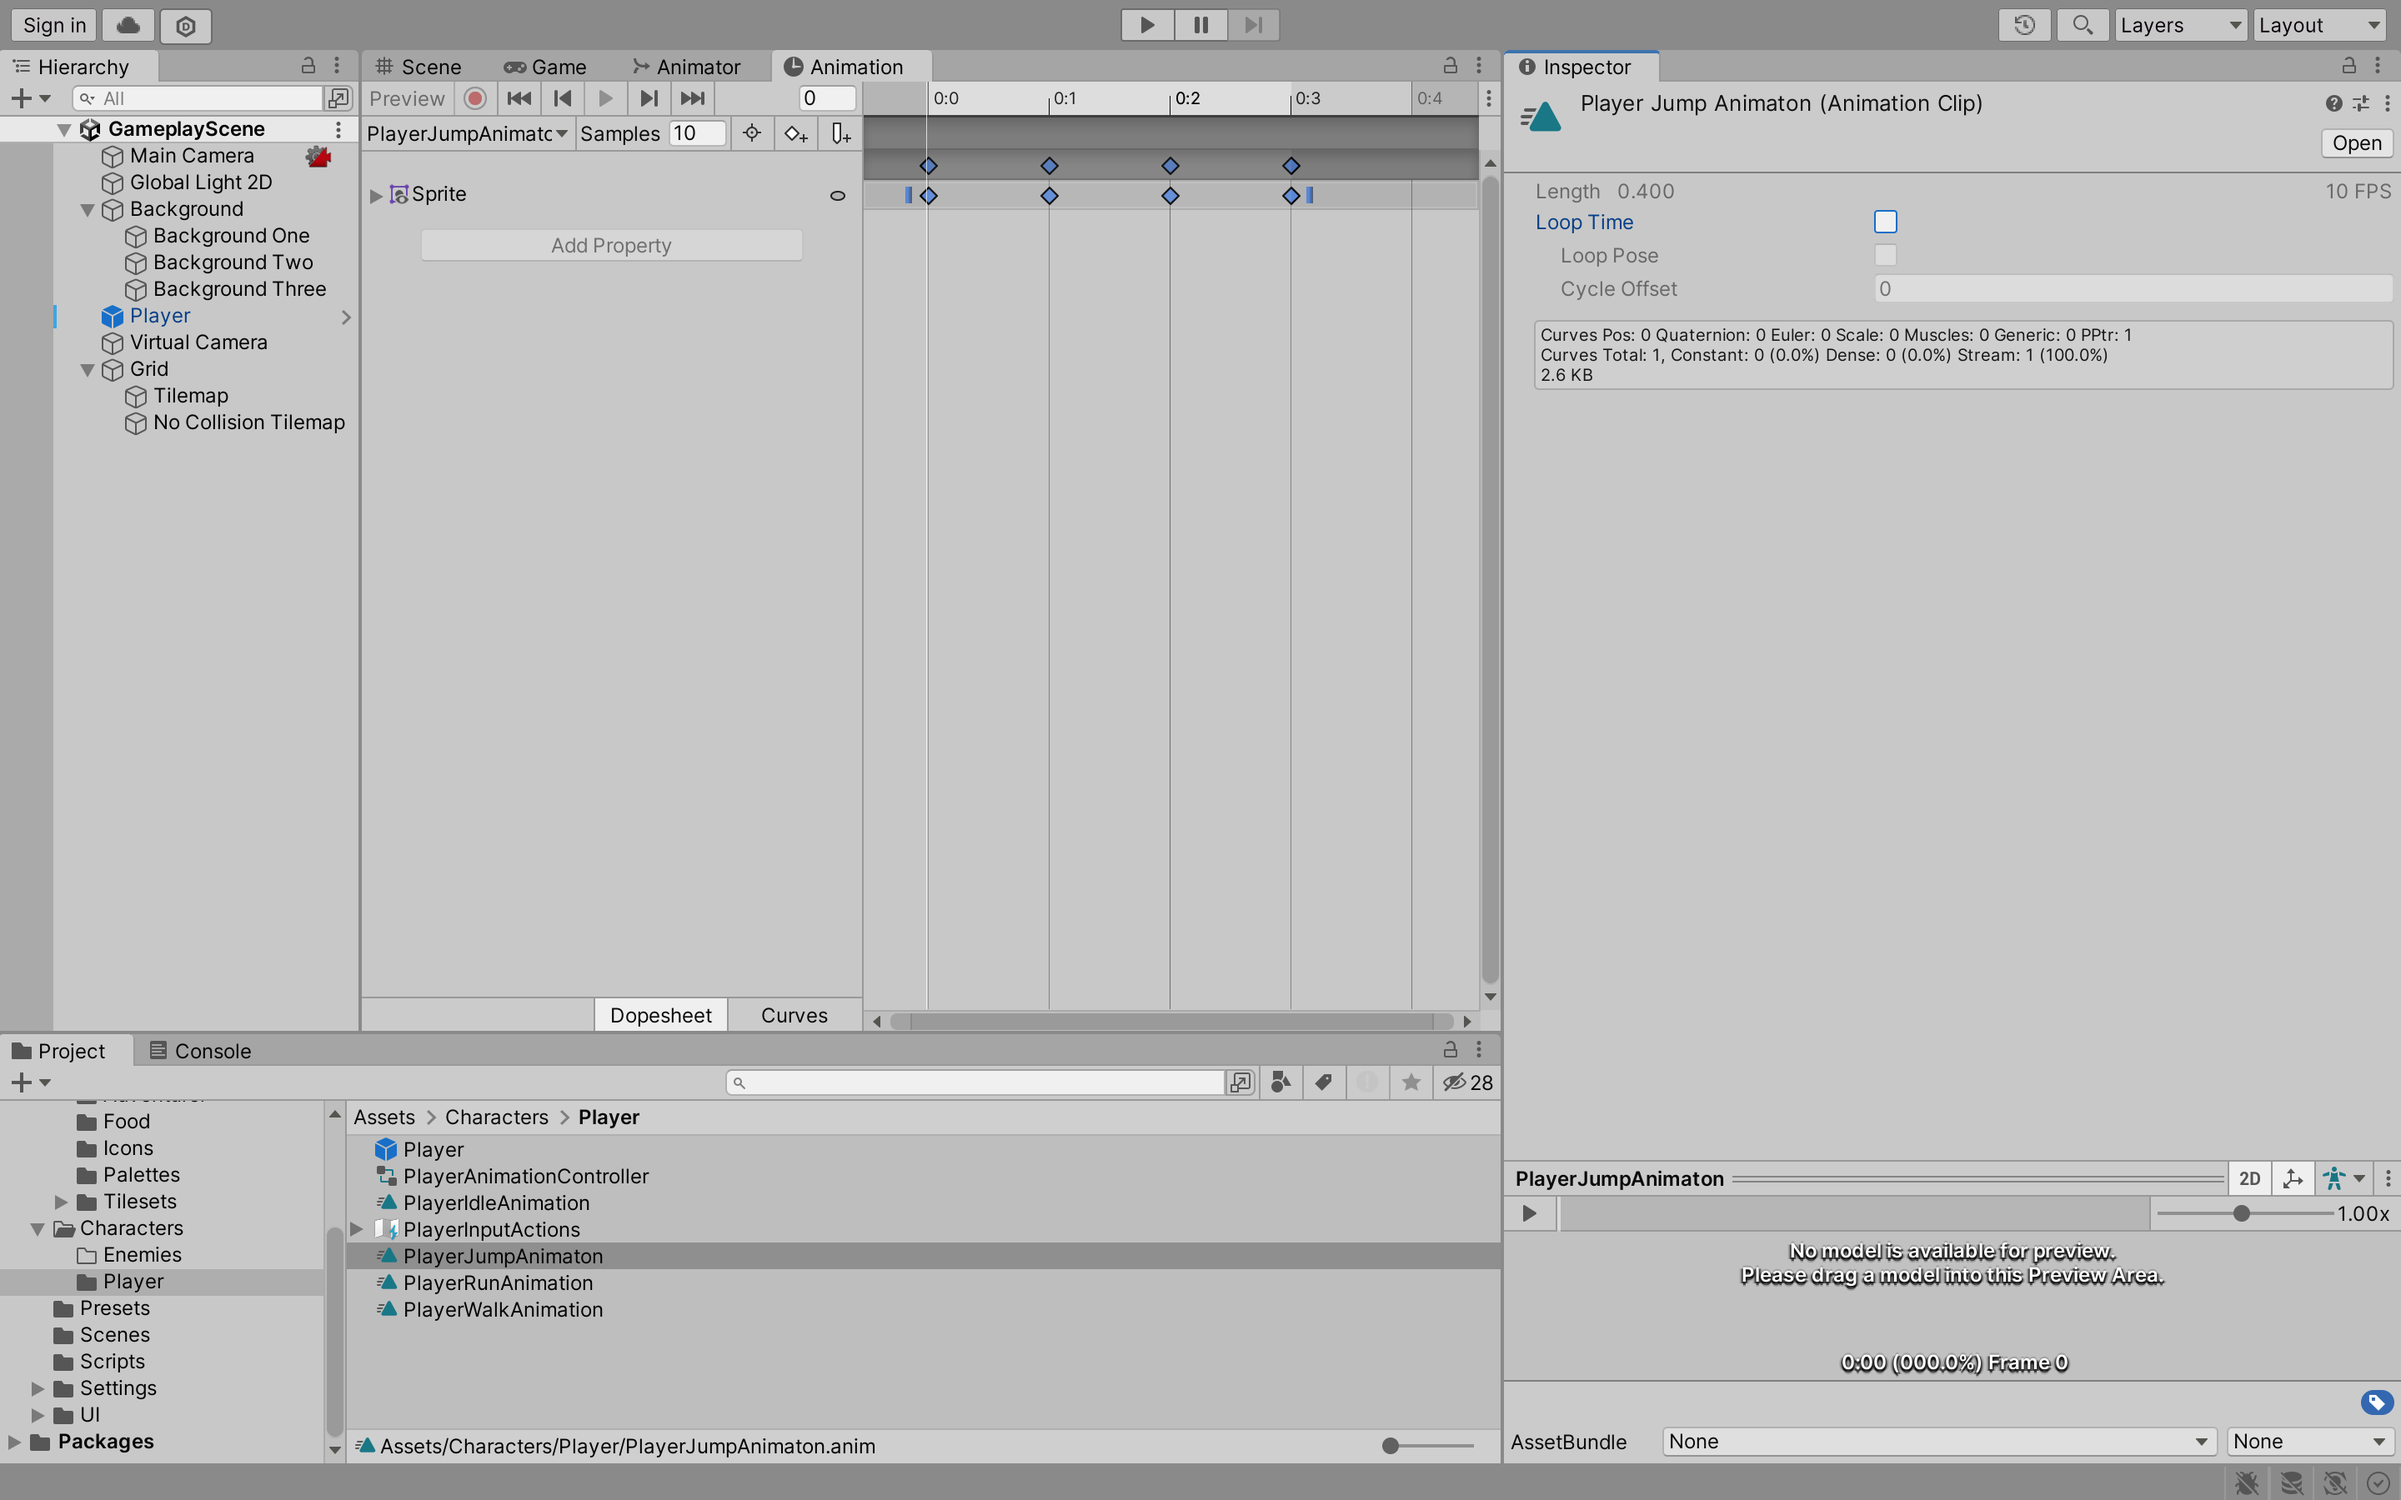
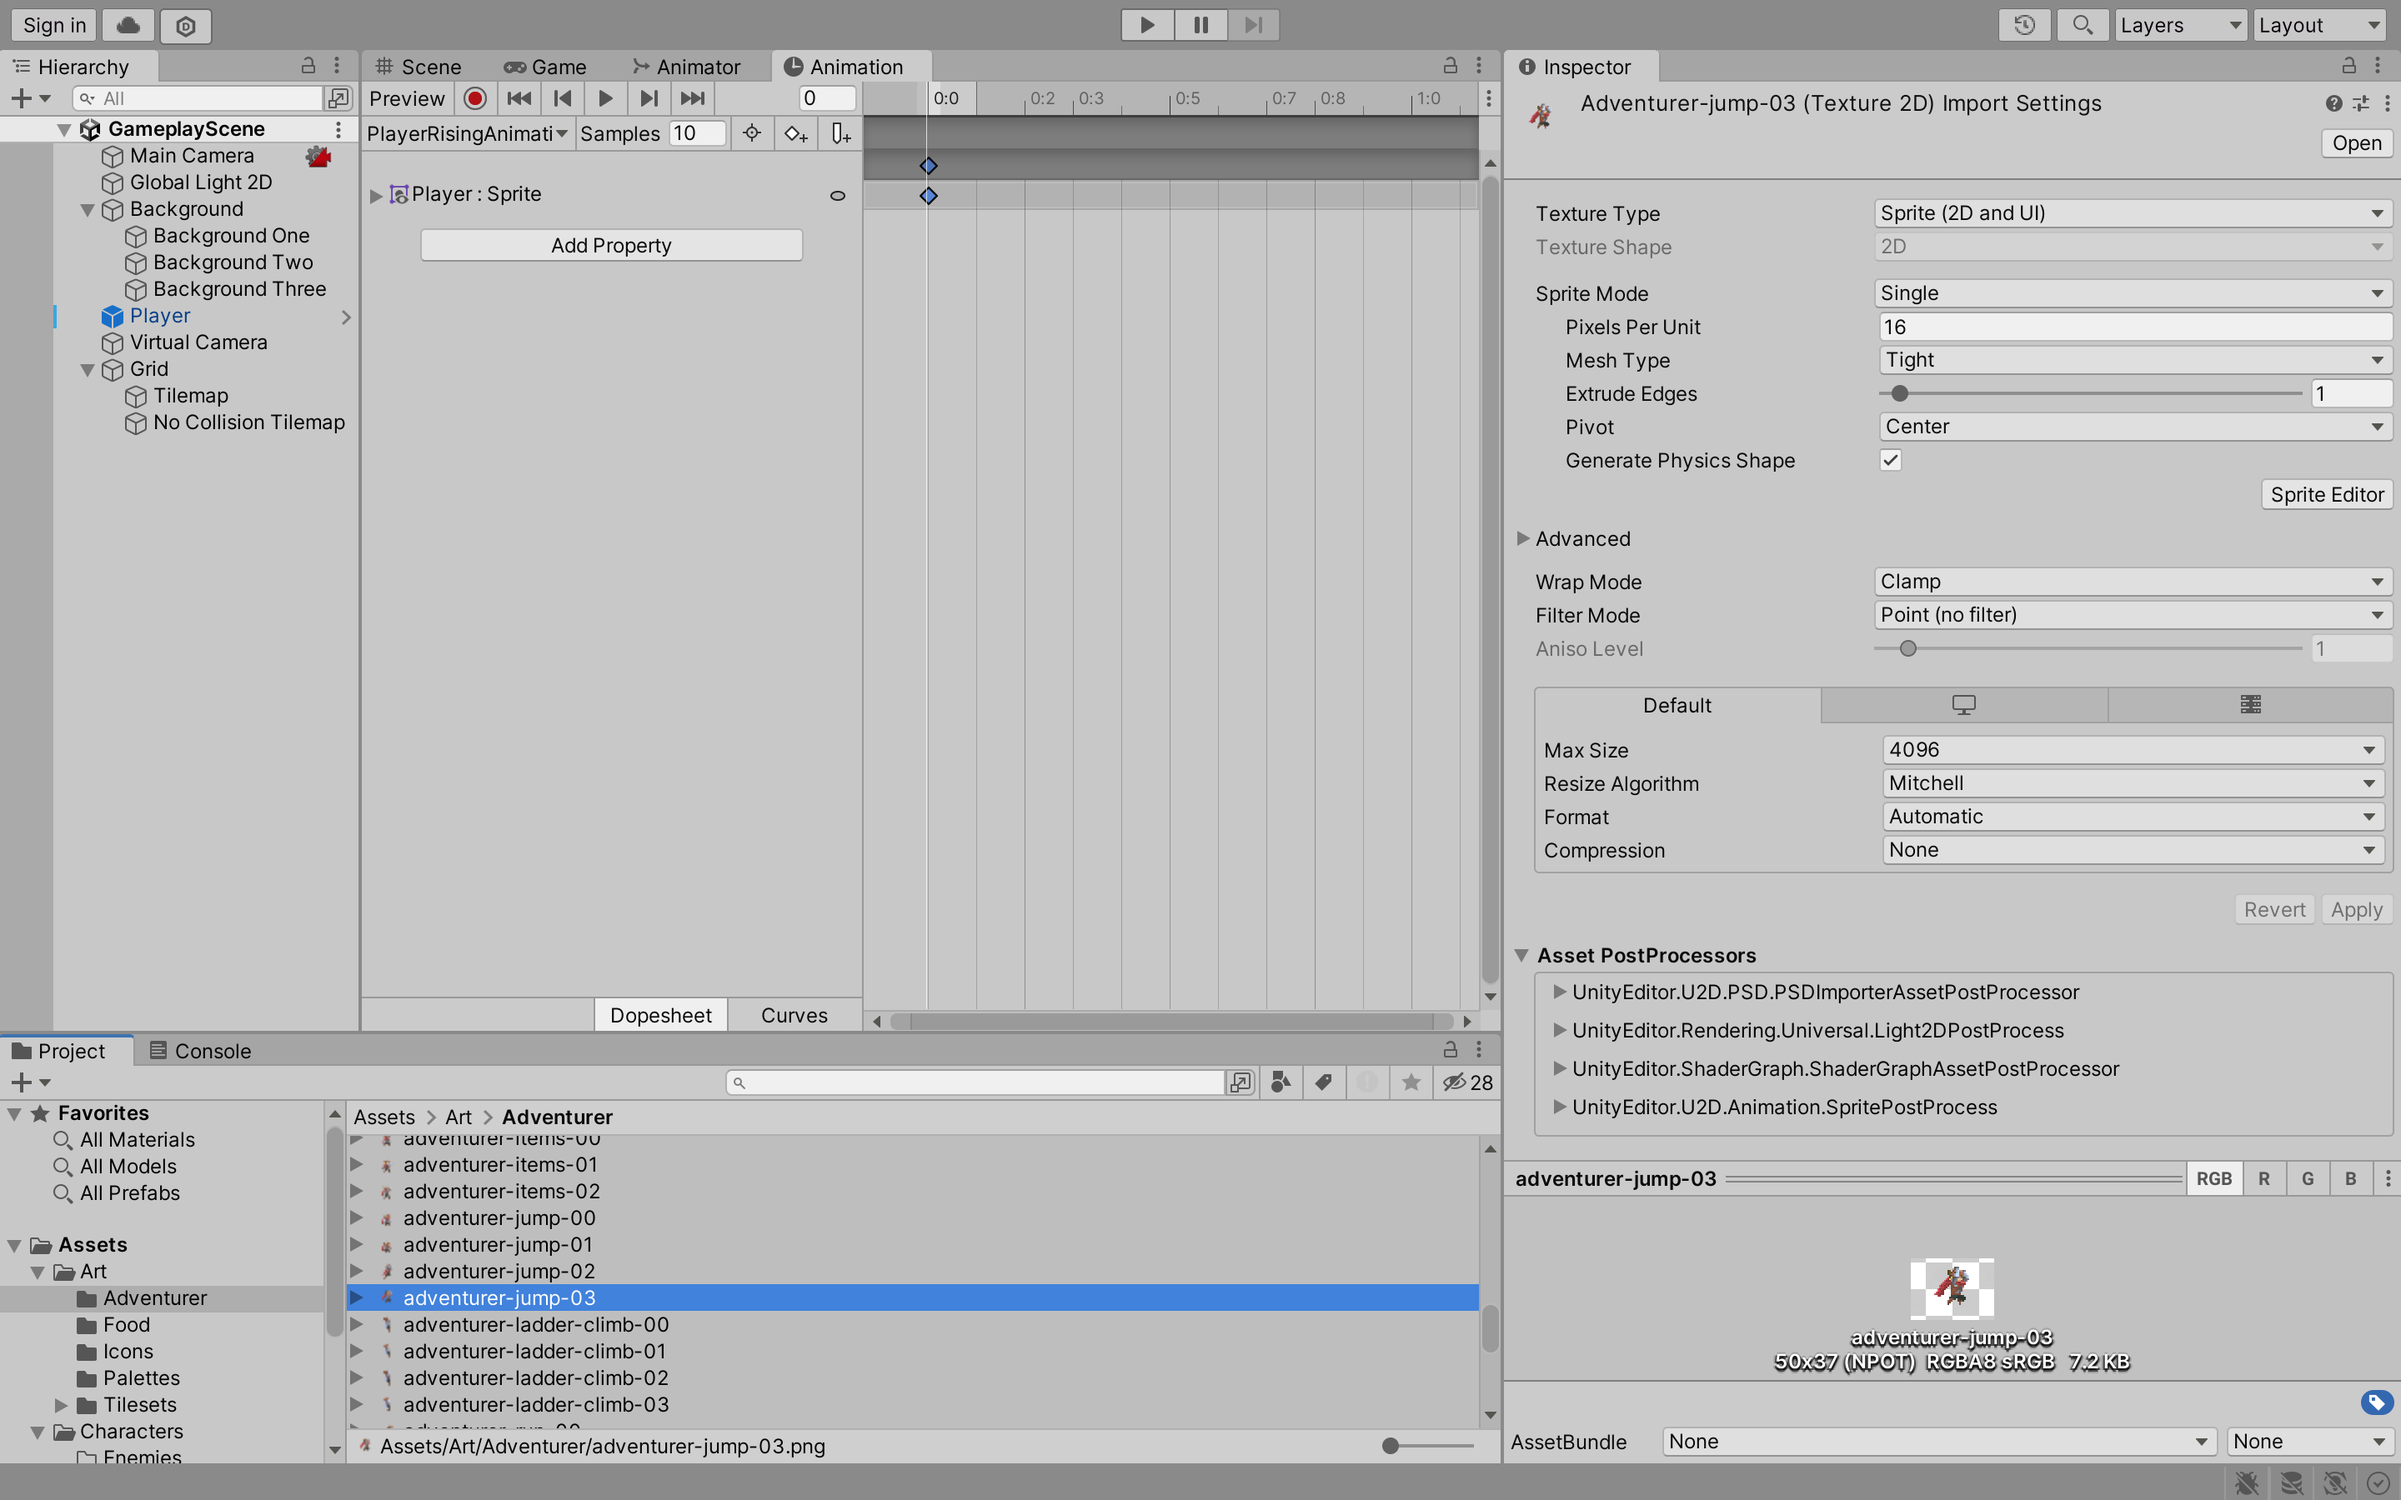
update

diff --git a/lecture-notes/01-unity-recap.md b/lecture-notes/01-unity-recap.md
@@ -569,6 +569,8 @@ public class PlayerController : MonoBehaviour
 
 ## Air States
 
+In the **Scripts** directory, create a new script called **TouchController.cs**. Add the following code to the script:
+
 ```cs
 using System.Collections;
 using System.Collections.Generic;
@@ -610,3 +612,50 @@ public class TouchController : MonoBehaviour
     }
 }
 ```
+
+2. Apply the **TouchController.cs** script to the **Player**.
+
+![](../resources/img/01/11-air-states/01.png)
+
+3. Open the **Animator** window and create a new bool parameter called **isGrounded**.
+
+![](../resources/img/01/11-air-states/02.png)
+
+4. Create a new **Animation Clip** called **PlayerJumpAnimation**. Add the following sprites to the **Dopesheet**:
+   - adventurer-jump-0
+   - adventurer-jump-1
+   - adventurer-jump-2
+   - adventurer-jump-3
+
+![](../resources/img/01/11-air-states/03.png)
+
+5. Create a new **Animation Clip** called **PlayerRisingAnimation**. Add the **adventurer-jump-3** sprite to the **Dopesheet**.
+
+![](../resources/img/01/11-air-states/04.png)
+
+6. Create a new **Animation Clip** called **PlayerFallAnimation**. Add the **adventurer-fall-0** and **adventurer-fall-1** sprites to the **Dopesheet**.
+
+![](../resources/img/01/11-air-states/05.png)
+
+7. Create a new **Sub-State Machine** called **AirStates**. This will be used to control the air states of the player. Move the **PlayerJumpAnimation**, **PlayerRisingAnimation** and **PlayerFallAnimation** into the **AirStates**.
+
+![](../resources/img/01/11-air-states/06.png)
+
+8. Make the following transitions:
+   - **GroundStates** to **AirStates**. Add the **IsGrounded** parameter in the **Conditions**. Set the **IsGrounded** to **false**.
+    - **AirStates** to **GroundStates**. Add the **IsGrounded** parameter in the **Conditions**. Set the **IsGrounded** to **true**.
+
+![](../resources/img/01/11-air-states/07.png)
+
+8. In **GroundStates**, make a transition from **(Up) Base Layer** to **Entry**. Add the **IsGrounded** parameter in the **Conditions**. Set the **IsGrounded** to **true**. What is happening here is that when the player is grounded, the **GroundStates** will be active. When the player is not grounded, the **AirStates** will be active. The **Entry** is a special state that is used to transition from one state to another.
+
+![](../resources/img/01/11-air-states/08.png)
+
+9. Make the following transitions:
+    - **PlayerWalkAnimation** to **Exit**.
+    - **PlayerRunAnimation** to **Exit**.
+    - **PlayerIdleAnimation** to **Exit**.
+
+Each of these transitions should have the **IsGrounded** parameter in the **Conditions**. Set the **IsGrounded** to **false**.
+
+![](../resources/img/01/11-air-states/09.png)
